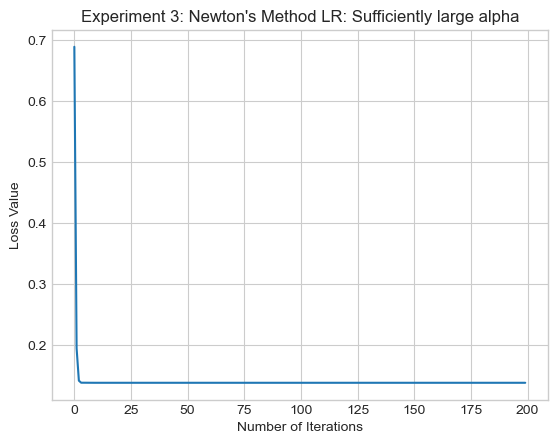
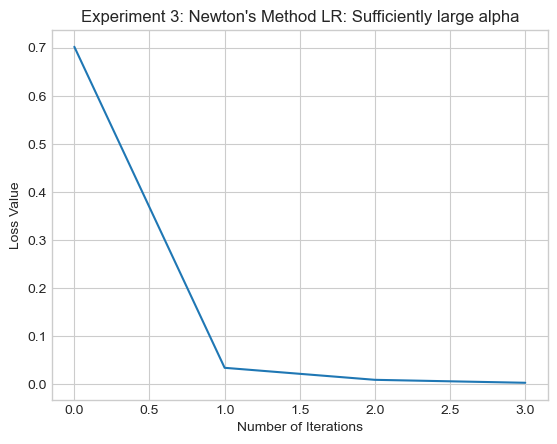
was committing at wrong level

diff --git a/docs/posts/BlogPost5/BlogPost5-5.html b/docs/posts/BlogPost5/BlogPost5-5.html
@@ -245,7 +245,7 @@ window.Quarto = {
 <section id="introduction" class="level1">
 <h1>INTRODUCTION</h1>
 <p>This blog post implements the Newton Optimizer for Logistic Regression. The Newton Optimizer is a second-order optimization technique that uses the Hessian matrix to find the optimal weights for the logistic regression model. After implementing Logistic Regression with the Newton Optimizer, we will conduct three experiments to demonstrate the advantages and disadvantages of the method in determining the optimal weight vector, by manipulating the alpha value. In conclusion, this post will look at the computational costs of Newton’s method compared to gradient descent.</p>
-<div id="cell-3" class="cell" data-execution_count="386">
+<div id="cell-3" class="cell" data-execution_count="421">
 <div class="sourceCode cell-code" id="cb1"><pre class="sourceCode python code-with-copy"><code class="sourceCode python"><span id="cb1-1"><a href="#cb1-1" aria-hidden="true" tabindex="-1"></a><span class="op">%</span>load_ext autoreload</span>
 <span id="cb1-2"><a href="#cb1-2" aria-hidden="true" tabindex="-1"></a><span class="op">%</span>autoreload <span class="dv">2</span></span>
 <span id="cb1-3"><a href="#cb1-3" aria-hidden="true" tabindex="-1"></a><span class="im">from</span> NewtonOptimizer <span class="im">import</span> LogisticRegression, GradientDescentOptimizer, NewtonOptimizer</span></code><button title="Copy to Clipboard" class="code-copy-button"><i class="bi"></i></button></pre></div>
@@ -254,13 +254,13 @@ window.Quarto = {
   %reload_ext autoreload</code></pre>
 </div>
 </div>
-<div id="cell-4" class="cell" data-execution_count="387">
+<div id="cell-4" class="cell" data-execution_count="422">
 <div class="sourceCode cell-code" id="cb3"><pre class="sourceCode python code-with-copy"><code class="sourceCode python"><span id="cb3-1"><a href="#cb3-1" aria-hidden="true" tabindex="-1"></a><span class="im">import</span> torch</span>
 <span id="cb3-2"><a href="#cb3-2" aria-hidden="true" tabindex="-1"></a><span class="im">from</span> matplotlib <span class="im">import</span> pyplot <span class="im">as</span> plt</span>
 <span id="cb3-3"><a href="#cb3-3" aria-hidden="true" tabindex="-1"></a>plt.style.use(<span class="st">'seaborn-v0_8-whitegrid'</span>)</span></code><button title="Copy to Clipboard" class="code-copy-button"><i class="bi"></i></button></pre></div>
 </div>
 <p>Let’s start by borrowing code from the Logistic Regression blog post that generates some linearly separable data for our Newton Optimizer to work with.</p>
-<div id="cell-6" class="cell" data-execution_count="388">
+<div id="cell-6" class="cell" data-execution_count="423">
 <div class="sourceCode cell-code" id="cb4"><pre class="sourceCode python code-with-copy"><code class="sourceCode python"><span id="cb4-1"><a href="#cb4-1" aria-hidden="true" tabindex="-1"></a><span class="kw">def</span> classification_data(n_points <span class="op">=</span> <span class="dv">300</span>, noise <span class="op">=</span> <span class="fl">0.2</span>, p_dims <span class="op">=</span> <span class="dv">2</span>):</span>
 <span id="cb4-2"><a href="#cb4-2" aria-hidden="true" tabindex="-1"></a>    </span>
 <span id="cb4-3"><a href="#cb4-3" aria-hidden="true" tabindex="-1"></a>    y <span class="op">=</span> torch.arange(n_points) <span class="op">&gt;=</span> <span class="bu">int</span>(n_points<span class="op">/</span><span class="dv">2</span>)</span>
@@ -272,7 +272,7 @@ window.Quarto = {
 <span id="cb4-9"><a href="#cb4-9" aria-hidden="true" tabindex="-1"></a></span>
 <span id="cb4-10"><a href="#cb4-10" aria-hidden="true" tabindex="-1"></a>X, y <span class="op">=</span> classification_data(n_points <span class="op">=</span> <span class="dv">500</span>, noise <span class="op">=</span> <span class="fl">0.5</span>, p_dims <span class="op">=</span> <span class="dv">2</span>)</span></code><button title="Copy to Clipboard" class="code-copy-button"><i class="bi"></i></button></pre></div>
 </div>
-<div id="cell-7" class="cell" data-execution_count="389">
+<div id="cell-7" class="cell" data-execution_count="424">
 <div class="sourceCode cell-code" id="cb5"><pre class="sourceCode python code-with-copy"><code class="sourceCode python"><span id="cb5-1"><a href="#cb5-1" aria-hidden="true" tabindex="-1"></a><span class="kw">def</span> plot_classification_data(X, y, ax):</span>
 <span id="cb5-2"><a href="#cb5-2" aria-hidden="true" tabindex="-1"></a>    <span class="cf">assert</span> X.shape[<span class="dv">1</span>] <span class="op">==</span> <span class="dv">3</span>, <span class="st">"This function only works for data created with p_dims == 2"</span></span>
 <span id="cb5-3"><a href="#cb5-3" aria-hidden="true" tabindex="-1"></a>    targets <span class="op">=</span> [<span class="dv">0</span>, <span class="dv">1</span>]</span>
@@ -282,14 +282,14 @@ window.Quarto = {
 <span id="cb5-7"><a href="#cb5-7" aria-hidden="true" tabindex="-1"></a>        ax.scatter(X[ix,<span class="dv">0</span>], X[ix,<span class="dv">1</span>], s <span class="op">=</span> <span class="dv">20</span>,  c <span class="op">=</span> y[ix], facecolors <span class="op">=</span> <span class="st">"none"</span>, edgecolors <span class="op">=</span> <span class="st">"darkgrey"</span>, cmap <span class="op">=</span> <span class="st">"BrBG"</span>, vmin <span class="op">=</span> <span class="op">-</span><span class="dv">2</span>, vmax <span class="op">=</span> <span class="dv">2</span>, alpha <span class="op">=</span> <span class="fl">0.5</span>, marker <span class="op">=</span> markers[i])</span>
 <span id="cb5-8"><a href="#cb5-8" aria-hidden="true" tabindex="-1"></a>    ax.<span class="bu">set</span>(xlabel <span class="op">=</span> <span class="vs">r"$x_1$"</span>, ylabel <span class="op">=</span> <span class="vs">r"$x_2$"</span>)</span></code><button title="Copy to Clipboard" class="code-copy-button"><i class="bi"></i></button></pre></div>
 </div>
-<div id="cell-8" class="cell" data-execution_count="390">
+<div id="cell-8" class="cell" data-execution_count="425">
 <div class="sourceCode cell-code" id="cb6"><pre class="sourceCode python code-with-copy"><code class="sourceCode python"><span id="cb6-1"><a href="#cb6-1" aria-hidden="true" tabindex="-1"></a><span class="kw">def</span> draw_line(w, x_min, x_max, ax, <span class="op">**</span>kwargs):</span>
 <span id="cb6-2"><a href="#cb6-2" aria-hidden="true" tabindex="-1"></a>    w_ <span class="op">=</span> w.flatten()</span>
 <span id="cb6-3"><a href="#cb6-3" aria-hidden="true" tabindex="-1"></a>    x <span class="op">=</span> torch.linspace(x_min, x_max, <span class="dv">101</span>)</span>
 <span id="cb6-4"><a href="#cb6-4" aria-hidden="true" tabindex="-1"></a>    y <span class="op">=</span> <span class="op">-</span>(w_[<span class="dv">0</span>]<span class="op">*</span>x <span class="op">+</span> w_[<span class="dv">2</span>])<span class="op">/</span>w_[<span class="dv">1</span>]</span>
 <span id="cb6-5"><a href="#cb6-5" aria-hidden="true" tabindex="-1"></a>    l <span class="op">=</span> ax.plot(x, y, <span class="op">**</span>kwargs)</span></code><button title="Copy to Clipboard" class="code-copy-button"><i class="bi"></i></button></pre></div>
 </div>
-<div id="cell-9" class="cell" data-execution_count="391">
+<div id="cell-9" class="cell" data-execution_count="426">
 <div class="sourceCode cell-code" id="cb7"><pre class="sourceCode python code-with-copy"><code class="sourceCode python"><span id="cb7-1"><a href="#cb7-1" aria-hidden="true" tabindex="-1"></a>fig, ax <span class="op">=</span> plt.subplots(<span class="dv">1</span>, <span class="dv">1</span>)</span>
 <span id="cb7-2"><a href="#cb7-2" aria-hidden="true" tabindex="-1"></a>X, y <span class="op">=</span> classification_data()</span>
 <span id="cb7-3"><a href="#cb7-3" aria-hidden="true" tabindex="-1"></a>plot_classification_data(X, y, ax)</span></code><button title="Copy to Clipboard" class="code-copy-button"><i class="bi"></i></button></pre></div>
@@ -307,18 +307,18 @@ window.Quarto = {
 <h1>EXPERIMENT 1</h1>
 <p>Now that we have some linearly separable data to work with, our first experiment involves choosing an alpha value such that Newton’s Method properly converges to the correct weight vector w.</p>
 <p>First, we initialize our model:</p>
-<div id="cell-14" class="cell" data-execution_count="392">
+<div id="cell-14" class="cell" data-execution_count="427">
 <div class="sourceCode cell-code" id="cb8"><pre class="sourceCode python code-with-copy"><code class="sourceCode python"><span id="cb8-1"><a href="#cb8-1" aria-hidden="true" tabindex="-1"></a>LR <span class="op">=</span> LogisticRegression() </span>
 <span id="cb8-2"><a href="#cb8-2" aria-hidden="true" tabindex="-1"></a>opt <span class="op">=</span> NewtonOptimizer(LR)</span></code><button title="Copy to Clipboard" class="code-copy-button"><i class="bi"></i></button></pre></div>
 </div>
 <p>We are using an alpha value of 0.25 in this first experiment.</p>
-<div id="cell-16" class="cell" data-execution_count="393">
+<div id="cell-16" class="cell" data-execution_count="428">
 <div class="sourceCode cell-code" id="cb9"><pre class="sourceCode python code-with-copy"><code class="sourceCode python"><span id="cb9-1"><a href="#cb9-1" aria-hidden="true" tabindex="-1"></a>loss_vec <span class="op">=</span> []</span>
 <span id="cb9-2"><a href="#cb9-2" aria-hidden="true" tabindex="-1"></a><span class="cf">for</span> _ <span class="kw">in</span> <span class="bu">range</span>(<span class="dv">6000</span>):</span>
 <span id="cb9-3"><a href="#cb9-3" aria-hidden="true" tabindex="-1"></a>    loss <span class="op">=</span> opt.step(X, y, alpha <span class="op">=</span> <span class="fl">0.25</span>)</span>
 <span id="cb9-4"><a href="#cb9-4" aria-hidden="true" tabindex="-1"></a>    loss_vec.append(loss)</span></code><button title="Copy to Clipboard" class="code-copy-button"><i class="bi"></i></button></pre></div>
 </div>
-<div id="cell-17" class="cell" data-execution_count="394">
+<div id="cell-17" class="cell" data-execution_count="429">
 <div class="sourceCode cell-code" id="cb10"><pre class="sourceCode python code-with-copy"><code class="sourceCode python"><span id="cb10-1"><a href="#cb10-1" aria-hidden="true" tabindex="-1"></a>fig, ax <span class="op">=</span> plt.subplots(<span class="dv">1</span>, <span class="dv">1</span>)</span>
 <span id="cb10-2"><a href="#cb10-2" aria-hidden="true" tabindex="-1"></a>opt_loss <span class="op">=</span> loss_vec[<span class="bu">len</span>(loss_vec) <span class="op">-</span> <span class="dv">1</span>]</span>
 <span id="cb10-3"><a href="#cb10-3" aria-hidden="true" tabindex="-1"></a>ax.grid(<span class="va">True</span>)</span>
@@ -336,7 +336,7 @@ window.Quarto = {
 </div>
 </div>
 <p>After 6000 iterations, and an alpha value of 0.25, we see that the model seems to be working. The loss value converges to a value nearly 0 and visually, the decision boundary splits the two clusters of data nicely.</p>
-<div id="cell-19" class="cell" data-execution_count="395">
+<div id="cell-19" class="cell" data-execution_count="430">
 <div class="sourceCode cell-code" id="cb11"><pre class="sourceCode python code-with-copy"><code class="sourceCode python"><span id="cb11-1"><a href="#cb11-1" aria-hidden="true" tabindex="-1"></a>plt.plot(loss_vec)</span>
 <span id="cb11-2"><a href="#cb11-2" aria-hidden="true" tabindex="-1"></a>labs <span class="op">=</span> plt.gca().<span class="bu">set</span>(xlabel <span class="op">=</span> <span class="st">"Number of Iterations"</span>, ylabel <span class="op">=</span> <span class="st">"Loss Value"</span>, title <span class="op">=</span> <span class="st">"Experiment 1: Newton's Method LR (alpha = 0.25)"</span>)</span></code><button title="Copy to Clipboard" class="code-copy-button"><i class="bi"></i></button></pre></div>
 <div class="cell-output cell-output-display">
@@ -353,14 +353,14 @@ window.Quarto = {
 <h1>EXPERIMENT 2</h1>
 <p>We now look to find the circumstances under which Logistic Regression with Newton’s Method converges noticeably faster than standard gradient descent, in the sense of decreasing empirical risk.</p>
 <p>First, we initialize two Logistic Regression models, one with Newton’s Method and the other with standard gradient descent.</p>
-<div id="cell-24" class="cell" data-execution_count="396">
+<div id="cell-24" class="cell" data-execution_count="431">
 <div class="sourceCode cell-code" id="cb12"><pre class="sourceCode python code-with-copy"><code class="sourceCode python"><span id="cb12-1"><a href="#cb12-1" aria-hidden="true" tabindex="-1"></a>Newton_LR <span class="op">=</span> LogisticRegression()</span>
 <span id="cb12-2"><a href="#cb12-2" aria-hidden="true" tabindex="-1"></a>Standard_LR <span class="op">=</span> LogisticRegression()</span>
 <span id="cb12-3"><a href="#cb12-3" aria-hidden="true" tabindex="-1"></a></span>
 <span id="cb12-4"><a href="#cb12-4" aria-hidden="true" tabindex="-1"></a>Newton_Opt <span class="op">=</span> NewtonOptimizer(Newton_LR)</span>
 <span id="cb12-5"><a href="#cb12-5" aria-hidden="true" tabindex="-1"></a>Standard_Opt <span class="op">=</span> GradientDescentOptimizer(Standard_LR)</span></code><button title="Copy to Clipboard" class="code-copy-button"><i class="bi"></i></button></pre></div>
 </div>
-<div id="cell-25" class="cell" data-execution_count="397">
+<div id="cell-25" class="cell" data-execution_count="432">
 <div class="sourceCode cell-code" id="cb13"><pre class="sourceCode python code-with-copy"><code class="sourceCode python"><span id="cb13-1"><a href="#cb13-1" aria-hidden="true" tabindex="-1"></a>Standard_lossVec <span class="op">=</span> []</span>
 <span id="cb13-2"><a href="#cb13-2" aria-hidden="true" tabindex="-1"></a><span class="cf">for</span> _ <span class="kw">in</span> <span class="bu">range</span>(<span class="dv">6000</span>):</span>
 <span id="cb13-3"><a href="#cb13-3" aria-hidden="true" tabindex="-1"></a>    Standard_loss <span class="op">=</span> Standard_Opt.step(X, y, alpha <span class="op">=</span> <span class="fl">0.01</span>, beta <span class="op">=</span> <span class="dv">0</span>)</span>
@@ -371,7 +371,7 @@ window.Quarto = {
 <span id="cb13-8"><a href="#cb13-8" aria-hidden="true" tabindex="-1"></a>    Newton_loss <span class="op">=</span> Newton_Opt.step(X, y, alpha <span class="op">=</span> <span class="fl">0.5</span>)</span>
 <span id="cb13-9"><a href="#cb13-9" aria-hidden="true" tabindex="-1"></a>    Newton_lossVec.append(Newton_loss)</span></code><button title="Copy to Clipboard" class="code-copy-button"><i class="bi"></i></button></pre></div>
 </div>
-<div id="cell-26" class="cell" data-execution_count="398">
+<div id="cell-26" class="cell" data-execution_count="433">
 <div class="sourceCode cell-code" id="cb14"><pre class="sourceCode python code-with-copy"><code class="sourceCode python"><span id="cb14-1"><a href="#cb14-1" aria-hidden="true" tabindex="-1"></a>plt.plot(Standard_lossVec, color <span class="op">=</span> <span class="st">"red"</span>, label <span class="op">=</span> <span class="st">"Standard Gradient Descent"</span>)</span>
 <span id="cb14-2"><a href="#cb14-2" aria-hidden="true" tabindex="-1"></a>plt.plot(Newton_lossVec, color <span class="op">=</span> <span class="st">"tan"</span>, label <span class="op">=</span> <span class="st">"Newton's Method"</span>)</span>
 <span id="cb14-3"><a href="#cb14-3" aria-hidden="true" tabindex="-1"></a>plt.legend()</span>
@@ -389,22 +389,68 @@ window.Quarto = {
 <section id="experiment-3" class="level1">
 <h1>EXPERIMENT 3</h1>
 <p>We now explore a scenario where if the alpha value is too large, the Logistic Regression model with Newton’s Method, will not converge to a loss of 0 and produce an optimal weight vector.</p>
-<div id="cell-30" class="cell" data-execution_count="399">
+<div id="cell-30" class="cell" data-execution_count="434">
 <div class="sourceCode cell-code" id="cb15"><pre class="sourceCode python code-with-copy"><code class="sourceCode python"><span id="cb15-1"><a href="#cb15-1" aria-hidden="true" tabindex="-1"></a>Newton_LR <span class="op">=</span> LogisticRegression() </span>
 <span id="cb15-2"><a href="#cb15-2" aria-hidden="true" tabindex="-1"></a>Newton_Opt <span class="op">=</span> NewtonOptimizer(Newton_LR)</span></code><button title="Copy to Clipboard" class="code-copy-button"><i class="bi"></i></button></pre></div>
 </div>
-<div id="cell-31" class="cell" data-execution_count="400">
-<div class="sourceCode cell-code" id="cb16"><pre class="sourceCode python code-with-copy"><code class="sourceCode python"><span id="cb16-1"><a href="#cb16-1" aria-hidden="true" tabindex="-1"></a>X, y <span class="op">=</span> classification_data(n_points<span class="op">=</span><span class="dv">300</span>, noise <span class="op">=</span> <span class="fl">0.5</span>)</span></code><button title="Copy to Clipboard" class="code-copy-button"><i class="bi"></i></button></pre></div>
+<div id="cell-31" class="cell" data-execution_count="435">
+<div class="sourceCode cell-code" id="cb16"><pre class="sourceCode python code-with-copy"><code class="sourceCode python"><span id="cb16-1"><a href="#cb16-1" aria-hidden="true" tabindex="-1"></a>X, y <span class="op">=</span> classification_data(n_points<span class="op">=</span><span class="dv">300</span>, noise <span class="op">=</span> <span class="fl">0.2</span>)</span></code><button title="Copy to Clipboard" class="code-copy-button"><i class="bi"></i></button></pre></div>
 </div>
-<div id="cell-32" class="cell" data-execution_count="401">
+<div id="cell-32" class="cell" data-execution_count="436">
 <div class="sourceCode cell-code" id="cb17"><pre class="sourceCode python code-with-copy"><code class="sourceCode python"><span id="cb17-1"><a href="#cb17-1" aria-hidden="true" tabindex="-1"></a>Newton_lossvec <span class="op">=</span> []</span>
 <span id="cb17-2"><a href="#cb17-2" aria-hidden="true" tabindex="-1"></a><span class="cf">for</span> _ <span class="kw">in</span> <span class="bu">range</span>(<span class="dv">400</span>):</span>
 <span id="cb17-3"><a href="#cb17-3" aria-hidden="true" tabindex="-1"></a>    Newton_loss <span class="op">=</span> Newton_Opt.step(X, y, alpha <span class="op">=</span> <span class="dv">500</span>)</span>
 <span id="cb17-4"><a href="#cb17-4" aria-hidden="true" tabindex="-1"></a>    Newton_lossvec.append(Newton_loss)</span></code><button title="Copy to Clipboard" class="code-copy-button"><i class="bi"></i></button></pre></div>
+<div class="cell-output cell-output-stdout">
+<pre><code>Unexpected exception formatting exception. Falling back to standard exception</code></pre>
 </div>
-<div id="cell-33" class="cell" data-execution_count="402">
-<div class="sourceCode cell-code" id="cb18"><pre class="sourceCode python code-with-copy"><code class="sourceCode python"><span id="cb18-1"><a href="#cb18-1" aria-hidden="true" tabindex="-1"></a>plt.plot(Newton_lossvec)</span>
-<span id="cb18-2"><a href="#cb18-2" aria-hidden="true" tabindex="-1"></a>labs <span class="op">=</span> plt.gca().<span class="bu">set</span>(xlabel <span class="op">=</span> <span class="st">"Number of Iterations"</span>, ylabel <span class="op">=</span> <span class="st">"Loss Value"</span>, title <span class="op">=</span> <span class="st">"Experiment 3: Newton's Method LR: Sufficiently large alpha"</span>)</span></code><button title="Copy to Clipboard" class="code-copy-button"><i class="bi"></i></button></pre></div>
+<div class="cell-output cell-output-stderr">
+<pre><code>Traceback (most recent call last):
+  File "/Users/lucasflemming/anaconda3/envs/ml-0451/lib/python3.9/site-packages/IPython/core/interactiveshell.py", line 3526, in run_code
+    exec(code_obj, self.user_global_ns, self.user_ns)
+  File "/var/folders/f6/sc30hmgd7rscfdx61dtgjxn40000gn/T/ipykernel_6371/2238967639.py", line 3, in &lt;module&gt;
+    Newton_loss = Newton_Opt.step(X, y, alpha = 500)
+  File "/Users/lucasflemming/MachineLearningSpring24/lucasf46.github.io/posts/BlogPost5/NewtonOptimizer.py", line 177, in step
+    self.model.w = self.model.w - (alpha * torch.inverse(hessian_matrix)) @ gradient
+RuntimeError: inverse_cpu: The diagonal element 1 is zero, the inversion could not be completed because the input matrix is singular.
+
+During handling of the above exception, another exception occurred:
+
+Traceback (most recent call last):
+  File "/Users/lucasflemming/anaconda3/envs/ml-0451/lib/python3.9/site-packages/IPython/core/interactiveshell.py", line 2120, in showtraceback
+    stb = self.InteractiveTB.structured_traceback(
+  File "/Users/lucasflemming/anaconda3/envs/ml-0451/lib/python3.9/site-packages/IPython/core/ultratb.py", line 1435, in structured_traceback
+    return FormattedTB.structured_traceback(
+  File "/Users/lucasflemming/anaconda3/envs/ml-0451/lib/python3.9/site-packages/IPython/core/ultratb.py", line 1326, in structured_traceback
+    return VerboseTB.structured_traceback(
+  File "/Users/lucasflemming/anaconda3/envs/ml-0451/lib/python3.9/site-packages/IPython/core/ultratb.py", line 1173, in structured_traceback
+    formatted_exception = self.format_exception_as_a_whole(etype, evalue, etb, number_of_lines_of_context,
+  File "/Users/lucasflemming/anaconda3/envs/ml-0451/lib/python3.9/site-packages/IPython/core/ultratb.py", line 1088, in format_exception_as_a_whole
+    frames.append(self.format_record(record))
+  File "/Users/lucasflemming/anaconda3/envs/ml-0451/lib/python3.9/site-packages/IPython/core/ultratb.py", line 970, in format_record
+    frame_info.lines, Colors, self.has_colors, lvals
+  File "/Users/lucasflemming/anaconda3/envs/ml-0451/lib/python3.9/site-packages/IPython/core/ultratb.py", line 792, in lines
+    return self._sd.lines
+  File "/Users/lucasflemming/anaconda3/envs/ml-0451/lib/python3.9/site-packages/stack_data/utils.py", line 145, in cached_property_wrapper
+    value = obj.__dict__[self.func.__name__] = self.func(obj)
+  File "/Users/lucasflemming/anaconda3/envs/ml-0451/lib/python3.9/site-packages/stack_data/core.py", line 698, in lines
+    pieces = self.included_pieces
+  File "/Users/lucasflemming/anaconda3/envs/ml-0451/lib/python3.9/site-packages/stack_data/utils.py", line 145, in cached_property_wrapper
+    value = obj.__dict__[self.func.__name__] = self.func(obj)
+  File "/Users/lucasflemming/anaconda3/envs/ml-0451/lib/python3.9/site-packages/stack_data/core.py", line 649, in included_pieces
+    pos = scope_pieces.index(self.executing_piece)
+  File "/Users/lucasflemming/anaconda3/envs/ml-0451/lib/python3.9/site-packages/stack_data/utils.py", line 145, in cached_property_wrapper
+    value = obj.__dict__[self.func.__name__] = self.func(obj)
+  File "/Users/lucasflemming/anaconda3/envs/ml-0451/lib/python3.9/site-packages/stack_data/core.py", line 628, in executing_piece
+    return only(
+  File "/Users/lucasflemming/anaconda3/envs/ml-0451/lib/python3.9/site-packages/executing/executing.py", line 164, in only
+    raise NotOneValueFound('Expected one value, found 0')
+executing.executing.NotOneValueFound: Expected one value, found 0</code></pre>
+</div>
+</div>
+<div id="cell-33" class="cell" data-execution_count="437">
+<div class="sourceCode cell-code" id="cb20"><pre class="sourceCode python code-with-copy"><code class="sourceCode python"><span id="cb20-1"><a href="#cb20-1" aria-hidden="true" tabindex="-1"></a>plt.plot(Newton_lossvec)</span>
+<span id="cb20-2"><a href="#cb20-2" aria-hidden="true" tabindex="-1"></a>labs <span class="op">=</span> plt.gca().<span class="bu">set</span>(xlabel <span class="op">=</span> <span class="st">"Number of Iterations"</span>, ylabel <span class="op">=</span> <span class="st">"Loss Value"</span>, title <span class="op">=</span> <span class="st">"Experiment 3: Newton's Method LR: Sufficiently large alpha"</span>)</span></code><button title="Copy to Clipboard" class="code-copy-button"><i class="bi"></i></button></pre></div>
 <div class="cell-output cell-output-display">
 <div>
 <figure class="figure">

diff --git a/docs/index.html b/docs/index.html
@@ -209,7 +209,7 @@ window.Quarto = {
 <!-- margin-sidebar -->
     <div id="quarto-margin-sidebar" class="sidebar margin-sidebar">
         
-    <h5 class="quarto-listing-category-title">Categories</h5><div class="quarto-listing-category category-default"><div class="category" data-category="">All <span class="quarto-category-count">(7)</span></div></div></div>
+    <h5 class="quarto-listing-category-title">Categories</h5><div class="quarto-listing-category category-default"><div class="category" data-category="">All <span class="quarto-category-count">(5)</span></div></div></div>
 <!-- main -->
 <main class="content quarto-banner-title-block column-page-left" id="quarto-document-content">
 
@@ -223,29 +223,7 @@ window.Quarto = {
 
 <div class="quarto-listing quarto-listing-container-default" id="listing-listing">
 <div class="list quarto-listing-default">
-<div class="quarto-post image-right" data-index="0" data-listing-file-modified-sort="1709009005196" data-listing-reading-time-sort="4" data-listing-word-count-sort="761">
-<div class="thumbnail">
-<p><a href="./posts/goal-setting.html" class="no-external"></a></p><a href="./posts/goal-setting.html" class="no-external">
-<div class="listing-item-img-placeholder card-img-top" >&nbsp;</div>
-</a><p><a href="./posts/goal-setting.html" class="no-external"></a></p>
-</div>
-<div class="body">
-<h3 class="no-anchor listing-title">
-<a href="./posts/goal-setting.html" class="no-external">CSCI 0451: Reflective Goal-Setting</a>
-</h3>
-<div class="listing-subtitle">
-<a href="./posts/goal-setting.html" class="no-external"></a>
-</div>
-<div class="listing-description">
-<a href="./posts/goal-setting.html" class="no-external">Lucas Flemming</a>
-</div>
-</div>
-<div class="metadata">
-<p><a href="./posts/goal-setting.html" class="no-external"></a></p><a href="./posts/goal-setting.html" class="no-external">
-</a>
-</div>
-</div>
-<div class="quarto-post image-right" data-index="1" data-listing-date-sort="1716177600000" data-listing-file-modified-sort="1716294388618" data-listing-date-modified-sort="NaN" data-listing-reading-time-sort="5" data-listing-word-count-sort="820">
+<div class="quarto-post image-right" data-index="0" data-listing-date-sort="1716181200000" data-listing-file-modified-sort="1716308666569" data-listing-date-modified-sort="NaN" data-listing-reading-time-sort="5" data-listing-word-count-sort="820">
 <div class="thumbnail">
 <p><a href="./posts/BlogPost5/BlogPost5-5.html" class="no-external"></a></p><a href="./posts/BlogPost5/BlogPost5-5.html" class="no-external">
 <p><img src="./posts/BlogPost5/Newton.jpg" class="thumbnail-image"></p>
@@ -273,7 +251,7 @@ Lucas Flemming
 </a>
 </div>
 </div>
-<div class="quarto-post image-right" data-index="2" data-listing-date-sort="1715745600000" data-listing-file-modified-sort="1715825313033" data-listing-date-modified-sort="NaN" data-listing-reading-time-sort="7" data-listing-word-count-sort="1243">
+<div class="quarto-post image-right" data-index="1" data-listing-date-sort="1715749200000" data-listing-file-modified-sort="1715825313033" data-listing-date-modified-sort="NaN" data-listing-reading-time-sort="7" data-listing-word-count-sort="1243">
 <div class="thumbnail">
 <p><a href="./posts/BlogPost2/BlogPost2-2.html" class="no-external"></a></p><a href="./posts/BlogPost2/BlogPost2-2.html" class="no-external">
 <p><img src="./posts/BlogPost2/Bank.jpg" class="thumbnail-image"></p>
@@ -301,7 +279,7 @@ Lucas Flemming
 </a>
 </div>
 </div>
-<div class="quarto-post image-right" data-index="3" data-listing-date-sort="1715659200000" data-listing-file-modified-sort="1715797332175" data-listing-date-modified-sort="NaN" data-listing-reading-time-sort="3" data-listing-word-count-sort="514">
+<div class="quarto-post image-right" data-index="2" data-listing-date-sort="1715662800000" data-listing-file-modified-sort="1720452359483" data-listing-date-modified-sort="NaN" data-listing-reading-time-sort="3" data-listing-word-count-sort="514">
 <div class="thumbnail">
 <p><a href="./posts/BlogPost4/BlogPost4-4.html" class="no-external"></a></p><a href="./posts/BlogPost4/BlogPost4-4.html" class="no-external">
 <p><img src="./posts/BlogPost4/Logistic.png" class="thumbnail-image"></p>
@@ -315,7 +293,7 @@ Lucas Flemming
 <a href="./posts/BlogPost4/BlogPost4-4.html" class="no-external"></a>
 </div>
 <div class="listing-description">
-<a href="./posts/BlogPost4/BlogPost4-4.html" class="no-external">Implementing Logistic Regression test</a>
+<a href="./posts/BlogPost4/BlogPost4-4.html" class="no-external">Implementing Logistic Regression</a>
 </div>
 </div>
 <div class="metadata">
@@ -329,7 +307,7 @@ Lucas Flemming
 </a>
 </div>
 </div>
-<div class="quarto-post image-right" data-index="4" data-listing-date-sort="1715313600000" data-listing-file-modified-sort="1715785091126" data-listing-date-modified-sort="NaN" data-listing-reading-time-sort="4" data-listing-word-count-sort="646">
+<div class="quarto-post image-right" data-index="3" data-listing-date-sort="1715317200000" data-listing-file-modified-sort="1715785091126" data-listing-date-modified-sort="NaN" data-listing-reading-time-sort="4" data-listing-word-count-sort="646">
 <div class="thumbnail">
 <p><a href="./posts/BlogPost1/BlogPost1-1.html" class="no-external"></a></p><a href="./posts/BlogPost1/BlogPost1-1.html" class="no-external">
 <p><img src="./posts/BlogPost1/Gentoo.jpg" class="thumbnail-image"></p>
@@ -357,7 +335,7 @@ Lucas Flemming
 </a>
 </div>
 </div>
-<div class="quarto-post image-right" data-index="5" data-listing-date-sort="1715313600000" data-listing-file-modified-sort="1715735194253" data-listing-date-modified-sort="NaN" data-listing-reading-time-sort="5" data-listing-word-count-sort="846">
+<div class="quarto-post image-right" data-index="4" data-listing-date-sort="1715317200000" data-listing-file-modified-sort="1720452340135" data-listing-date-modified-sort="NaN" data-listing-reading-time-sort="5" data-listing-word-count-sort="846">
 <div class="thumbnail">
 <p><a href="./posts/BlogPost3/BlogPost3-3.html" class="no-external"></a></p><a href="./posts/BlogPost3/BlogPost3-3.html" class="no-external">
 <p><img src="./posts/BlogPost3/Perceptron.jpg" class="thumbnail-image"></p>
@@ -371,7 +349,7 @@ Lucas Flemming
 <a href="./posts/BlogPost3/BlogPost3-3.html" class="no-external"></a>
 </div>
 <div class="listing-description">
-<a href="./posts/BlogPost3/BlogPost3-3.html" class="no-external">Implementing the Perceptron algorithm</a>
+<a href="./posts/BlogPost3/BlogPost3-3.html" class="no-external">Implementing the Perceptron Algorithm</a>
 </div>
 </div>
 <div class="metadata">
@@ -381,34 +359,6 @@ May 10, 2024
 </div>
 <div class="listing-author">
 Lucas Flemming
-</div>
-</a>
-</div>
-</div>
-<div class="quarto-post image-right" data-index="6" data-listing-date-sort="1678424400000" data-listing-file-modified-sort="1707795881203" data-listing-date-modified-sort="NaN" data-listing-reading-time-sort="3" data-listing-word-count-sort="441">
-<div class="thumbnail">
-<p><a href="./posts/new-test-post/index.html" class="no-external"></a></p><a href="./posts/new-test-post/index.html" class="no-external">
-<p><img src="./posts/new-test-post/image.jpg" class="thumbnail-image"></p>
-</a><p><a href="./posts/new-test-post/index.html" class="no-external"></a></p>
-</div>
-<div class="body">
-<h3 class="no-anchor listing-title">
-<a href="./posts/new-test-post/index.html" class="no-external">Second Post</a>
-</h3>
-<div class="listing-subtitle">
-<a href="./posts/new-test-post/index.html" class="no-external"></a>
-</div>
-<div class="listing-description">
-<a href="./posts/new-test-post/index.html" class="no-external">A new blog post that I just made!</a>
-</div>
-</div>
-<div class="metadata">
-<a href="./posts/new-test-post/index.html" class="no-external">
-<div class="listing-date">
-Mar 10, 2023
-</div>
-<div class="listing-author">
-Phil Chodrow
 </div>
 </a>
 </div>

diff --git a/docs/posts/BlogPost3/BlogPost3-3.html b/docs/posts/BlogPost3/BlogPost3-3.html
@@ -8,7 +8,7 @@
 
 <meta name="author" content="Lucas Flemming">
 <meta name="dcterms.date" content="2024-05-10">
-<meta name="description" content="Implementing the Perceptron algorithm">
+<meta name="description" content="Implementing the Perceptron Algorithm">
 
 <title>My Awesome CSCI 0451 Blog - Perceptron Blog Post</title>
 <style>
@@ -171,7 +171,7 @@ background-size: cover;
       <h1 class="title">Perceptron Blog Post</h1>
                   <div>
         <div class="description">
-          Implementing the Perceptron algorithm
+          Implementing the Perceptron Algorithm
         </div>
       </div>
                 </div>

diff --git a/docs/posts/BlogPost4/BlogPost4-4.html b/docs/posts/BlogPost4/BlogPost4-4.html
@@ -8,7 +8,7 @@
 
 <meta name="author" content="Lucas Flemming">
 <meta name="dcterms.date" content="2024-05-14">
-<meta name="description" content="Implementing Logistic Regression test">
+<meta name="description" content="Implementing Logistic Regression">
 
 <title>My Awesome CSCI 0451 Blog - Logistic Regression</title>
 <style>
@@ -171,7 +171,7 @@ background-size: cover;
       <h1 class="title">Logistic Regression</h1>
                   <div>
         <div class="description">
-          Implementing Logistic Regression test
+          Implementing Logistic Regression
         </div>
       </div>
                 </div>
